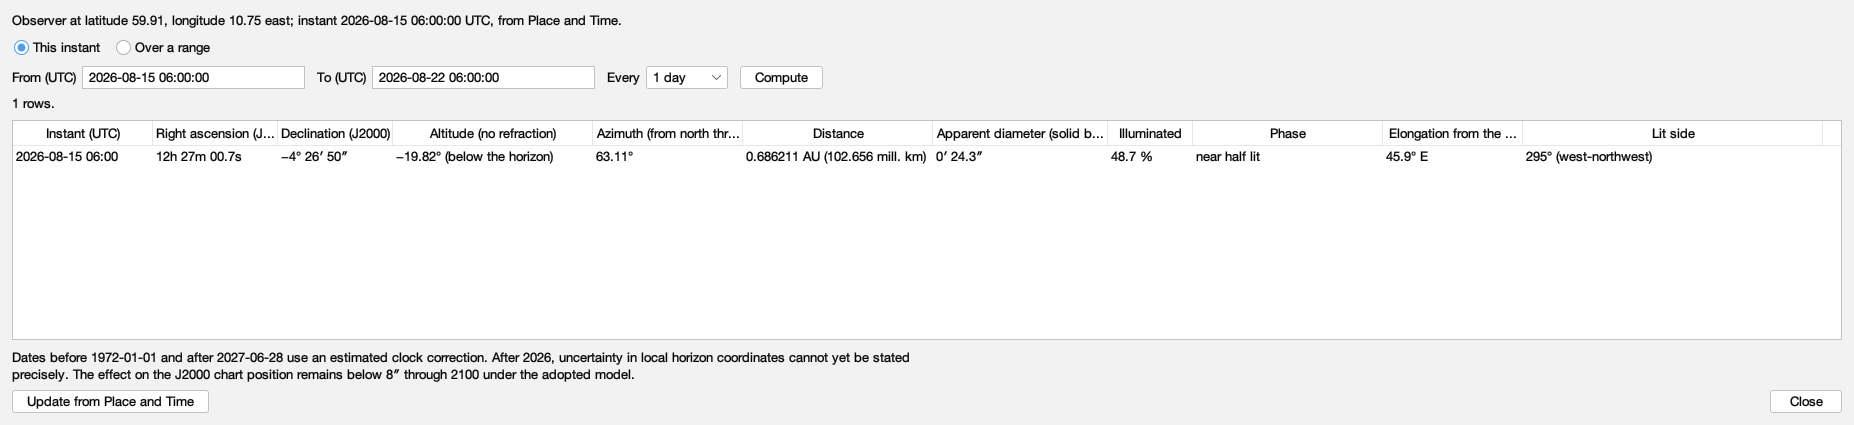
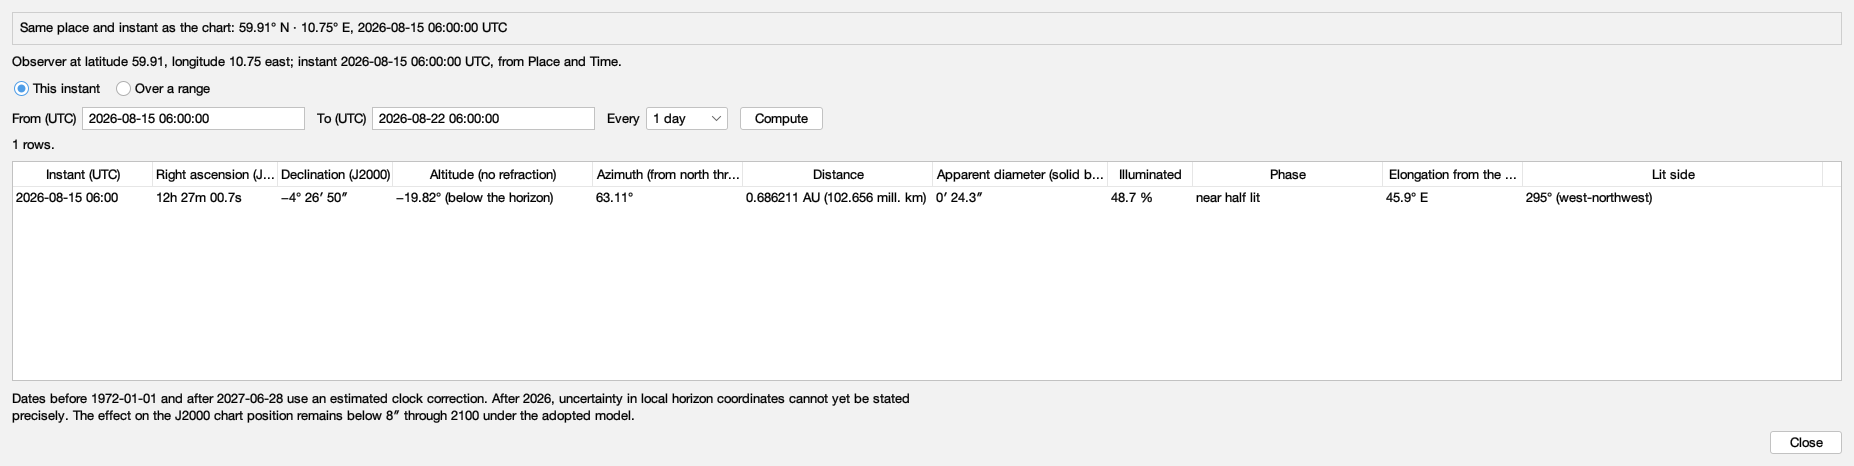
#259 Register the chart-instant journey and refresh the Venus article's table figures
Gate 1 on 532eae2a stopped on four findings of the change (kept in its
record): the new display journey was not in the pinned corpus, a test
added a doClick, the decision quoted the old scanner counts, and the
article's copies of the regenerated Venus table sheets were stale.

diff --git a/test/juranometria/tool/TestEvidenceGateTest.java b/test/juranometria/tool/TestEvidenceGateTest.java
@@ -562,7 +562,7 @@ class TestEvidenceGateTest {
                         || f.premises().contains("focus-owner")).count();
         long reachPremise = display.stream().filter(f ->
                 f.premises().contains("point-reachable")).count();
-        assertEquals(56, display.size(),
+        assertEquals(57, display.size(),
                 "the display corpus is the twenty the decision names"
                         + " plus the black-sky journey (#246), the"
                         + " #261 pair - the surfaces journey and the"
@@ -714,7 +714,15 @@ class TestEvidenceGateTest {
                         + " press that computes nothing until asked is"
                         + " a claim about a shown window - and walks"
                         + " the Controller's own focus traversal to"
-                        + " the group's controls");
+                        + " the group's controls; and #259's chart-instant"
+                        + " journey, which starts the real application on"
+                        + " a counting clock and presses Update to now on"
+                        + " every route a reader has - the chart's box by"
+                        + " pointer and by Tab and Enter, the Controller's"
+                        + " buttons, the chart keyboard's W - with their"
+                        + " reachability and focus proven, because one"
+                        + " clock read per press is a claim about the"
+                        + " running atlas");
         assertTrue(focusPremise >= 14,
                 "focus premises spread under #243 and may not"
                         + " retreat: " + focusPremise + " of "

diff --git a/test/juranometria/ui/solar/AgreementLineTest.java b/test/juranometria/ui/solar/AgreementLineTest.java
@@ -97,9 +97,11 @@ class AgreementLineTest {
                 "saying it recomputed nothing");
         assertEquals(result, controls.session().result(), "and changed no result");
 
-        controls.update.doClick();
+        // The button applies this host's draft, as Compute does; the
+        // Controller journey presses it for real.
+        controls.apply();
         assertEquals(computed + 1, controls.session().computations(),
-                "the button is the reader asking: it recomputes, once");
+                "the reader asking recomputes, once");
         assertTrue(controls.agreementText().startsWith("Same place and instant"));
     }
 

diff --git a/docs/decisions/test-evidence.md b/docs/decisions/test-evidence.md
@@ -76,11 +76,15 @@ The gate test pins all of it: zero unprotected, and the
 non-preference locals list is exactly `SwingSession.java`.
 
 The standing counts, quoted from the scanner so the gate can hold
-this document to them: **75 files** touch process-wide state —
-**35** use the shared guard, **39** restore locally,
-**0 flagged unprotected** — and **56 files** depend on a display,
-of which **19** state a focus premise and **33** a reachability
-premise through the shared route helper. (#246 added two
+this document to them: **76 files** touch process-wide state —
+**36** use the shared guard, **39** restore locally,
+**0 flagged unprotected** — and **57 files** depend on a display,
+of which **19** state a focus premise and **34** a reachability
+premise through the shared route helper. (#259 added one
+guard-protected toucher and one display journey: the chart-instant
+journey, which starts the real application on a counting clock and
+presses Update to now on every route a reader has, its premises
+stated. #246 added two
 guard-protected look-and-feel touchers — the black-sky renderer
 test and its journey — and the journey to the display corpus,
 premises stated; #261 added the surfaces journey, through the

diff --git a/docs/studies/test-evidence/measurements.md b/docs/studies/test-evidence/measurements.md
@@ -197,7 +197,7 @@ The study mains and the packaged acceptance are single-JVM runs: a look and feel
 
 - files dispatching real pointer events: 22
 - files dispatching real keyboard events: 2
-- files using doClick somewhere: 40
+- files using doClick somewhere: 39
 - files using postActionEvent somewhere: 4
 
 ## Platform assumptions written into tests
